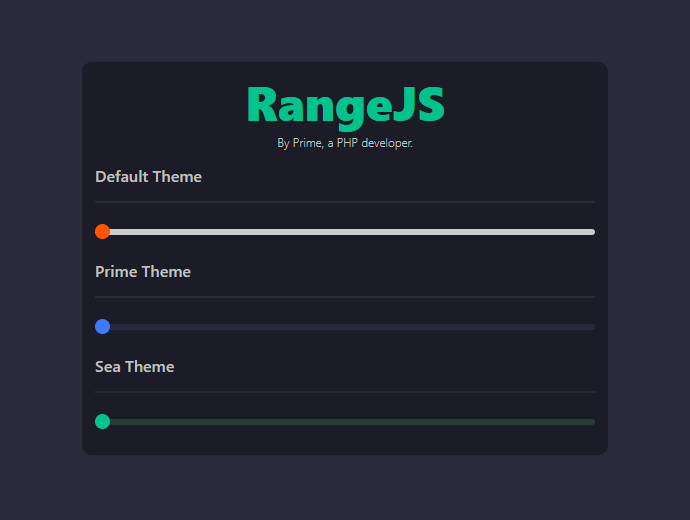
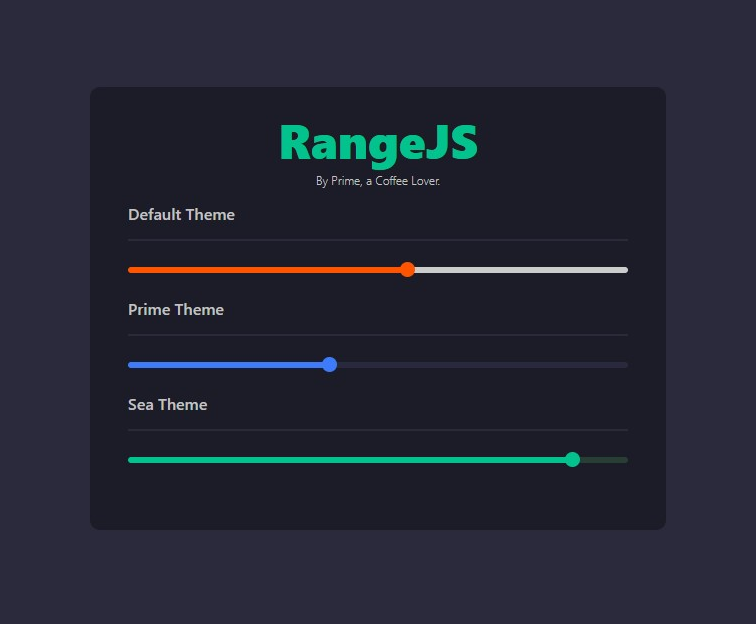
Better Readme.

diff --git a/index.html b/index.html
@@ -53,7 +53,7 @@
     <div class="wrapper">
         <div class="header">
             <span>RangeJS</span>
-            <span class="meta">By Prime, a PHP developer.</span>
+            <span class="meta">By Prime, a Coffee Lover.</span>
         </div>
 
 
@@ -79,14 +79,14 @@
         rangeJsinit({
             'theme':'default',
             'debug': false,
-            'value': 2,
+            'value': 0,
             'cfns': {
                 'input': () => { notif('on input triggered.') },
                 'change': () => { console.log('changed') }
             }
         }, '#range_default');
-        rangeJsinit({'theme':'prime', 'value': 40}, '#range_prime');
-        rangeJsinit({'theme':'sea', 'value': 90}, '#range_sea');
+        rangeJsinit({'theme':'prime', 'value': 0}, '#range_prime');
+        rangeJsinit({'theme':'sea', 'value': 0}, '#range_sea');
     </script>
 </body>
 </html>

diff --git a/readme.md b/readme.md
@@ -9,7 +9,7 @@ Created for specific reason, to deal with html range inputs better and prettier.
 * 🎨 comes with base themes & can accept new themes
 * ⚒ debug freindly process
 * 🎯 can target all range inputs, or specific one
-* ☕ can be better by a cup of coffe
+* ☕ can be better by a cup of coffee
 
 ## How to use
 ### Basic usage
@@ -68,12 +68,12 @@ rangeJsinit({
 
 ## Config options
 currently RangeJs supports below options.
-| name  |  required |  type  | default |
-|:------|:---------:|:------:|:-------:|
-| `theme` | false     | string | `'default'` |
-| `debug` | false     | boolean|  `false`  |
-| `value` | false     | integer|  `0`  |
-| `cfns` | false     | object|  `null`  |
+| name  |  required |  type  | default | description |
+|:------|:---------:|:------:|:-------:|:------- |
+| `theme` | false     | string | `'default'` | theme name |
+| `debug` | false     | boolean|  `false`  | enables console debugging |
+| `value` | false     | integer|  `0`  | initial vale |
+| `cfns` | false     | object|  `null`  | callback functions |
 
 ## Theming
 you can use core ready themes, or define your own theme.
@@ -111,3 +111,10 @@ In the next versions, it will be easier to make the theme because it is one of o
 
 ## Contribute
 To all those who can use the keyboard, **pull requests are welcomed** 🙏.
+
+## Donate
+for now I prefer pull requests and stars. for the future, i will receive donations 💸.
+
+## License
+
+The RangeJs is open-sourced script licensed under the [MIT license](https://opensource.org/license/mit/).
